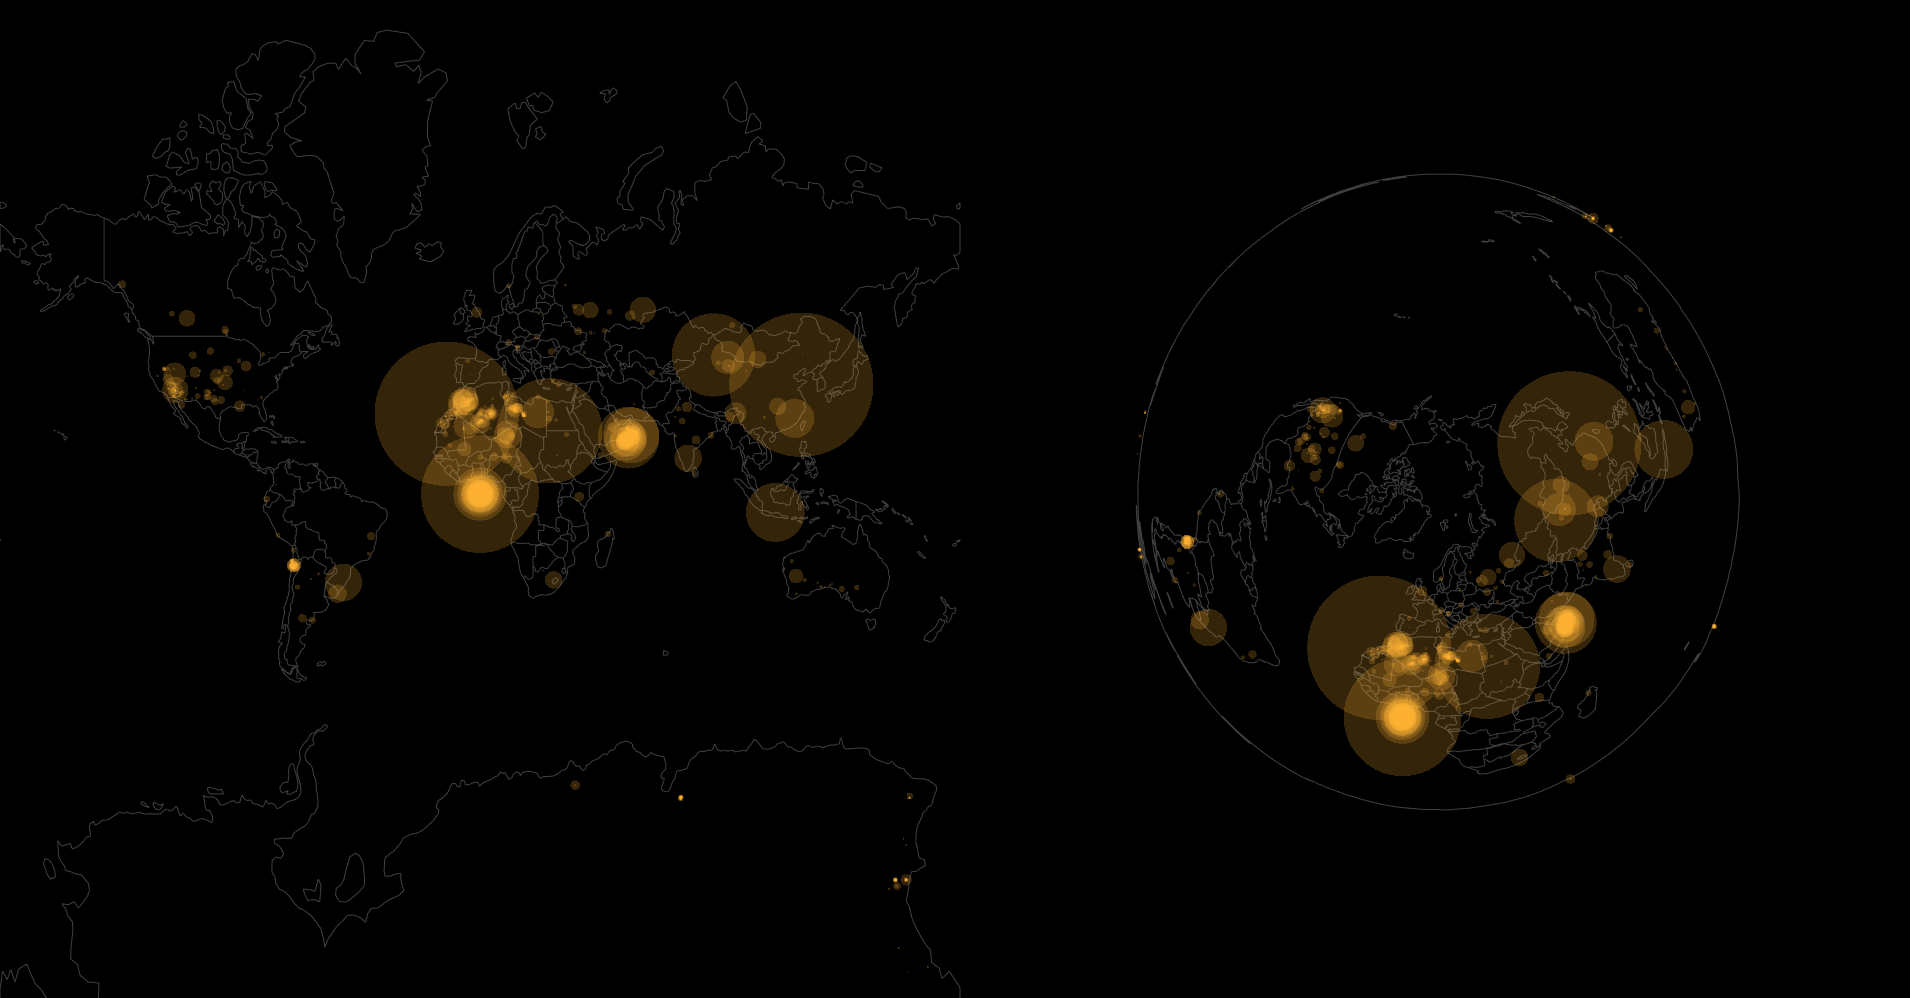
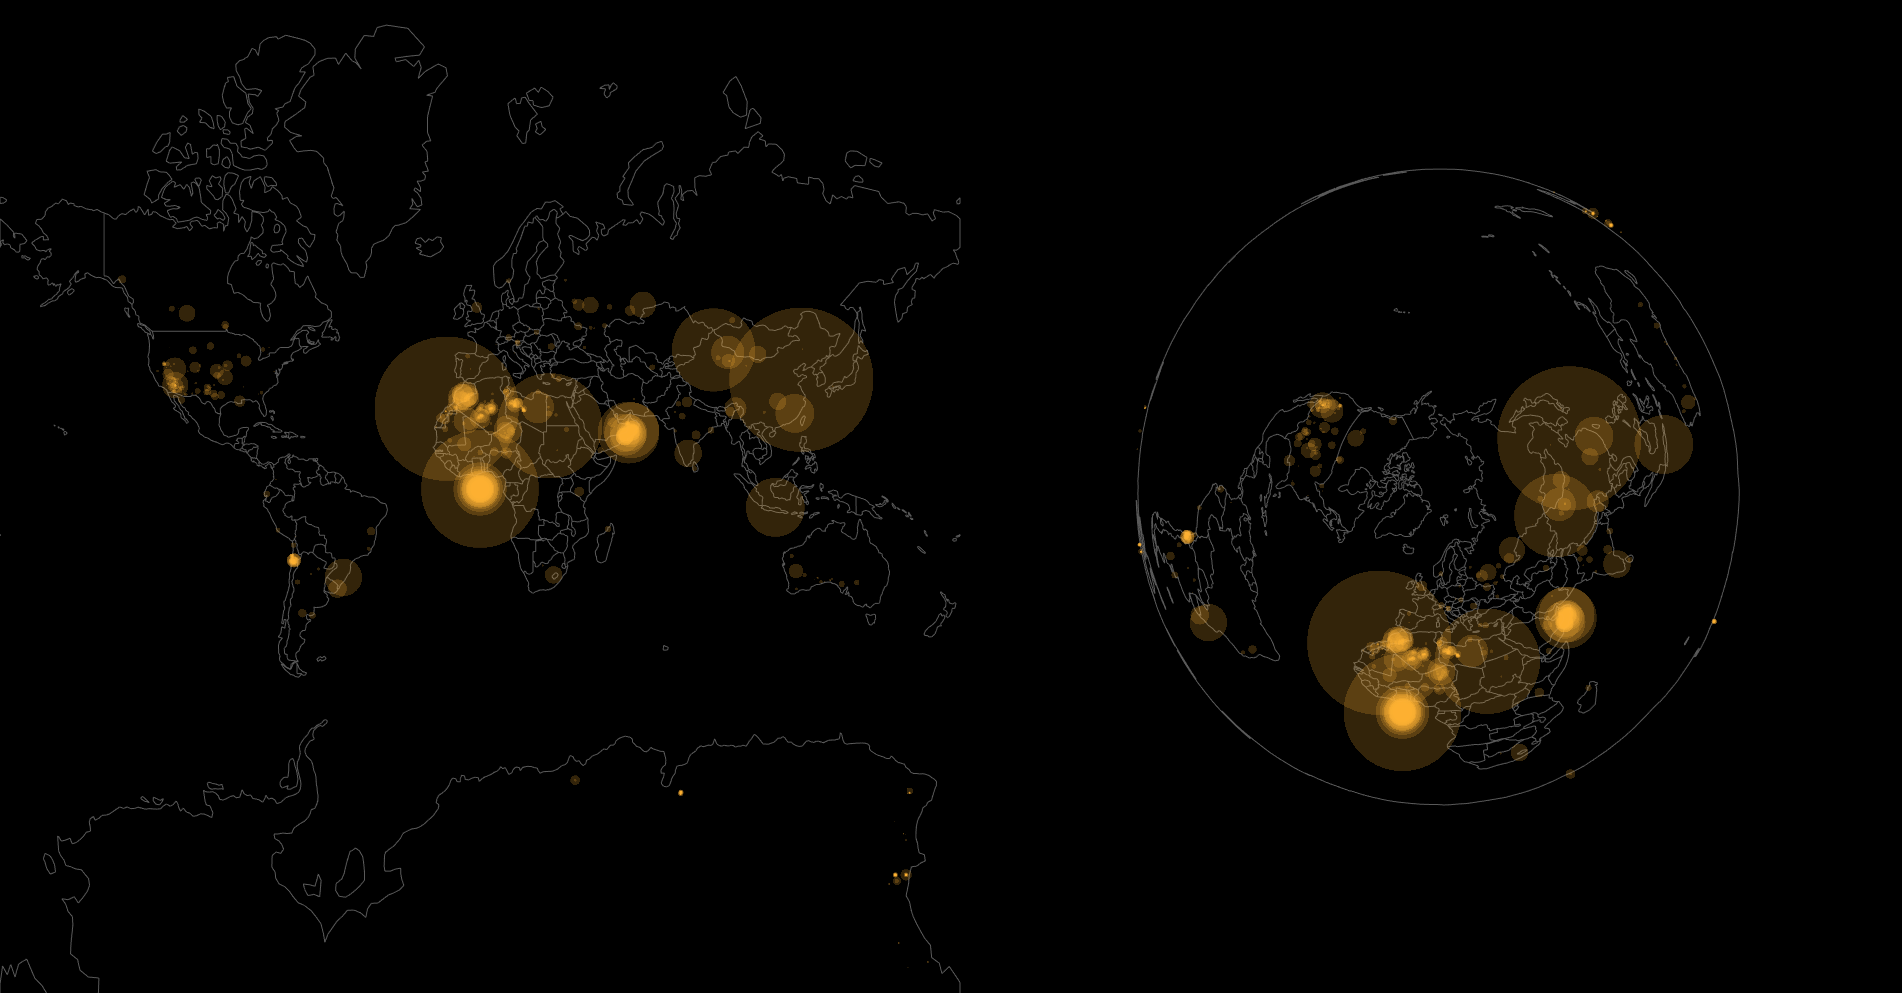
Modify fragment color

diff --git a/src/glsl/fragments/worldFs.ts b/src/glsl/fragments/worldFs.ts
@@ -2,6 +2,6 @@ export const worldFs: string = `
   precision highp float;
 
   void main(){
-    gl_FragColor = vec4(.25, .25, .25, 1);
+    gl_FragColor = vec4(.35, .35, .35, 1);
   }
 `;
